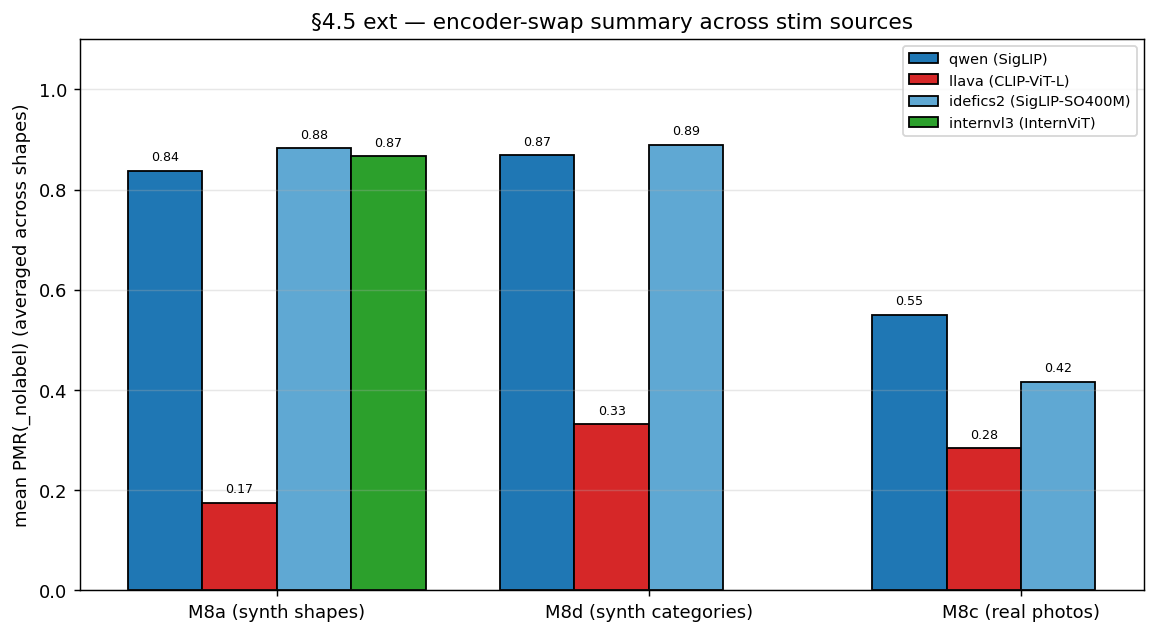
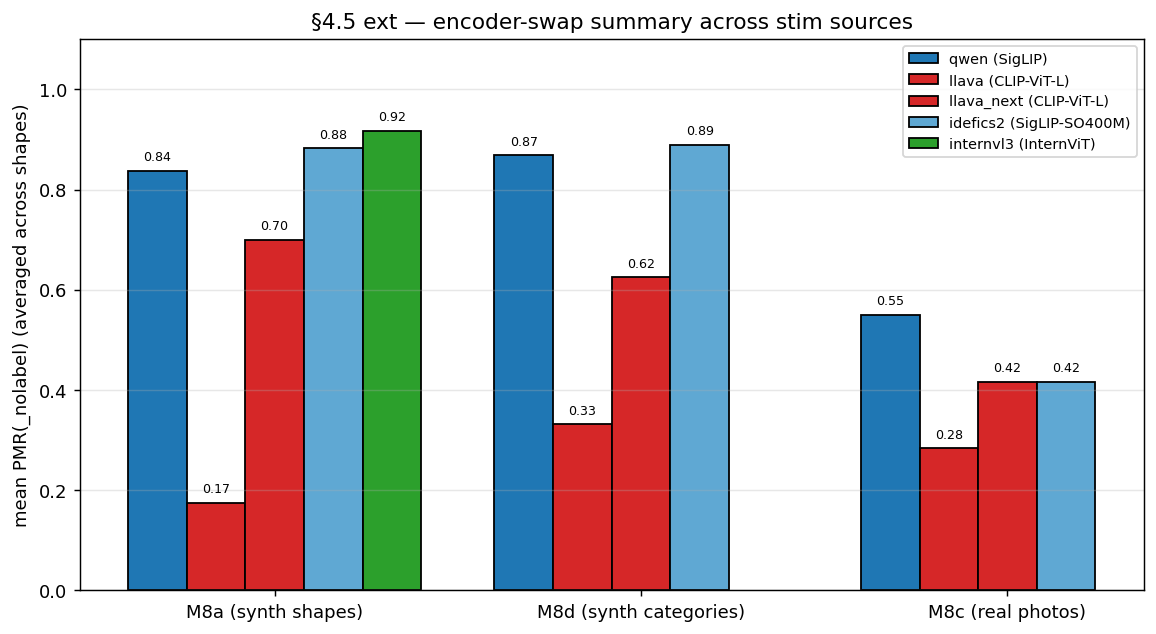
feat(m6 r6 cross-stim): LLaVA-Next on M8d + M8c (5-model M9 audit)
LLaVA-Next on M8d (1440 + 480) + M8c (180 + 60) inference, ~16 min on
GPU 0. Three findings:

1. **PMR mid-band holds cross-stim**: M8d PMR 0.625 [0.58, 0.67] sits
   between LLaVA-1.5 0.331 [0.29, 0.37] and saturated cluster [0.84,
   0.92], same as on M8a.
2. **Photo collapse generalizes**: LLaVA-Next M8c PMR 0.417 is
   statistically indistinguishable from Idefics2 M8c 0.417. Encoder gap
   compresses for the 5th model too. M8c finding (M6 r5) generalizes.
3. **H7 collapses across architecture for the LLaVA family**: M8a +0.26
   (5/5 PASS) / M8d −0.05 (CI [−0.10, −0.01], noise floor) / M8c +0.02.
   LLaVA-1.5's project-strongest H7 (M8d +0.31) does not survive the
   architecture switch. PMR 0.625 has measurement headroom on M8d, so
   H7 collapse is not a saturation effect.

H-LM-modulation **not promoted** per advisor: two-Mistral M8d H7 ≈ 0
clustering is multi-axis-confounded (Idefics2 vs LLaVA-Next differs
along encoder, projector, image pipeline, training, in addition to LM).
−0.054 effect size is symmetric to Idefics2's +0.048 — both demoted to
"suggested only".

Updates m6_r6_llava_next.md (+ ko) cross-stim addendum, encoder_saturation
_paper.md (+ ko) M9 table to 5 models, regenerated figures, roadmap M6 r6
row + change log entry.

diff --git a/references/roadmap.md b/references/roadmap.md
@@ -78,7 +78,7 @@ Original H1-H3 from `references/project.md` §2.2 plus H4-H7 derived during the 
 | **M6 r3** | **Idefics2 vision-encoder probe (closes AUC↔PMR chain)** | 400 M8a stim × 4 SigLIP-SO400M layers (88 s capture), per-layer logistic-regression probe on per-stim PMR. **AUC 0.93 mean (peak 0.948 at layer 9)** — SigLIP cluster confirmed at the encoder-family level (Qwen 0.99 + Idefics2 0.93 vs LLaVA 0.73). H-encoder-saturation chain `encoder family → AUC → PMR → H7` now closed at 3 model points at the mechanism level. | ✅ | 2026-04-25 |
 | **M6 r4** | **InternVL3 vision-encoder probe + Qwen/LLaVA M8a re-capture (4-model chain on identical stim, non-CLIP-general)** | M8a inference (1200+400 in 12 min) + 400 stim × 4 InternViT layers (47 s capture) + per-layer logistic-regression probe. **InternVL3 AUC = 0.89 / PMR(_nolabel) = 0.92.** Round also re-captured Qwen + LLaVA on M8a stim for an apples-to-apples 4-model AUC table. **4-point M8a chain: Qwen 0.88/0.84, LLaVA 0.77/0.18, Idefics2 0.93/0.88, InternVL3 0.89/0.92.** 3 distinct non-CLIP encoder families (SigLIP, SigLIP-SO400M, InternViT) cluster at AUC ≥ 0.88; only CLIP-ViT-L falls to 0.77. Paper claim generalizes from "SigLIP saturates" to "non-CLIP encoders saturate; CLIP doesn't (in this sample)". Required vlm_runner fix for InternVL3's vision_tower.encoder.layer (singular) attribute. **Stim-y check (added late round)**: all 4 encoders separate stim-defined factorial cells at AUC = 1.0; encoder discriminability is uniform across families. Reframes the chain to architecture-level (encoder + LM fusion), not encoder-discriminability. | ✅ | 2026-04-25 |
 | **M6 r5** | **M8c photo encoder probe (4-model cross-stim)** | InternVL3 M8c inference (180+60 in 2 min) + 4 model × 60 photo captures (~3 min) + behavioral-y + stim-y probes. **Behavioral-y AUC inverts cross-stim**: Qwen 0.88→0.44, LLaVA 0.77→0.86, Idefics2 0.93→0.77, InternVL3 0.89→0.59. **Stim-y AUC stays at 1.0 for all 4 models** on photos (physical-shape vs abstract-shape). Confirms cross-stim that encoder discriminability is uniform; behavioral-y AUC is a "encoder ↔ behavior alignment" measure that varies with each model's per-stim PMR distribution. Final cross-stim confirmation of the architecture-level reframe. | ✅ | 2026-04-25 |
-| **M6 r6** | **LLaVA-Next-Mistral 5th model point (2nd CLIP)** | LLaVA-v1.6-Mistral-7b on M8a (400 labeled + 400 label-free + 400 stim × 4 layers × 5 tile capture). PMR(_nolabel) = **0.700, 95% CI [0.65, 0.74]**, sitting between LLaVA-1.5 floor [0.14, 0.21] and saturated cluster [0.80, 0.92]. Behavioral-y AUC at layer 23 = 0.81; stim-y AUC = 1.0 across all 4 targets. **5-model M8a chain locked**: Qwen / LLaVA-1.5 / LLaVA-Next / Idefics2 / InternVL3. The 2nd CLIP point rules out vision-encoder-family as sole determinant of PMR (same encoder, PMR moves 0.18 → 0.70). Reported as 5th observation, not LM-controlled counterfactual: 4 architectural axes change simultaneously (AnyRes tiling, fusion projector, training data + recipe, LM family). H-encoder-saturation **architecture-level confirmed at 5 model points + 2 CLIP points**. | ✅ | 2026-04-25 |
+| **M6 r6** | **LLaVA-Next-Mistral 5th model point (2nd CLIP) + cross-stim addendum** | M8a (400 labeled + 400 label-free + 400 stim × 4 layers × 5 tile capture). PMR(_nolabel) = **0.700, 95% CI [0.65, 0.74]**, sitting between LLaVA-1.5 floor [0.14, 0.21] and saturated cluster [0.80, 0.92]. Behavioral-y AUC 0.81; stim-y AUC = 1.0 across all 4 targets. **5-model M8a chain locked**. **Cross-stim** (1440 + 480 M8d + 180 + 60 M8c, ~16 min): M8d PMR 0.625 [0.58, 0.67] preserves mid-band; M8c PMR 0.417 statistically equal to Idefics2 0.417 (photo-collapse generalizes). **H7 cross-stim**: M8a +0.26 (5/5 PASS), M8d −0.05 (CI [−0.10, −0.01], noise floor), M8c +0.02 — same-encoder-family architecture switch attenuates H7 even with PMR headroom (M8d PMR 0.625 well below ceiling). H-encoder-saturation **architecture-level confirmed at 5 model points + 2 CLIP points + 3 stim sources**. H-LM-modulation still suggested-only (two-Mistral H7 ≈ 0 on M8d is multi-axis-confounded). | ✅ | 2026-04-25 |
 | **M8a** | **Stimulus diversification — non-circle synthetic shapes** | Square / triangle / hexagon / irregular polygon × line/filled/shaded/textured × bg/cue grid; Qwen + LLaVA, labeled + label-free arms. **Strict pre-registration scoring: Qwen 1/4, LLaVA 4/4** — the asymmetry validates H-encoder-saturation cross-shape. H1 + H7 are unsaturated-only. Triangle (`wedge`) + polygon (`polygon`) exposed as label-design weak points. | ✅ | 2026-04-25 |
 | **M8d** | **Stimulus diversification — non-ball physical object categories** | car / person / bird × line/filled/shaded/textured × bg/cue × `(fall, horizontal)` × 5 seeds. **Strict pre-registration scoring: Qwen 0/3 H7 (binary, ceiling), LLaVA 3/3 H7 ✓ — strongest cross-category H7 evidence in the project.** Underneath Qwen ceiling, regime distribution shows 17.5 % static (figurine) / 22.5 % static (statue), validating H7 at the kinetic-vs-static split. H1 fails on both (shape-specific axis). H-encoder-saturation cross-validated cross-category. New `classify_regime` keyword classifier (5.6 % hand-annotation error). | ✅ | 2026-04-25 |
 | **M8c** | **Stimulus diversification — real photographs** | 60 photos (12 × {ball, car, person, bird, abstract}) from COCO 2017 + WikiArt. **Key result**: photos REDUCE Qwen PMR(_nolabel) by 18-48 pp across categories — visual-saturation hypothesis refined: behavioral PMR saturation requires both encoder representational confidence AND input-context simplicity. LLaVA H7 partially holds (2/4 binary). LLaVA person photo PMR rises +39 pp vs synthetic (encoder finally recognizes humans). | ✅ | 2026-04-25 |
@@ -774,3 +774,4 @@ Systematically validate the M2 finding that "label selects the physics regime" (
 | 2026-04-25 | **Apples-to-apples 4-model M8a-stim AUC**: re-captured Qwen + LLaVA on M8a stim (replacing the M2-stim M6 r2 AUC numbers in the 4-model chain). Updated chain: Qwen 0.88/0.84, LLaVA 0.77/0.18, Idefics2 0.93/0.88, InternVL3 0.89/0.92. The M6 r2 0.99/0.73 numbers reflected M2's bimodal line/ground split (more probe-friendly than M8a's wider per-cell PMR range). Headline (non-CLIP cluster ≥ 0.88, CLIP at 0.77) holds in both stim sources; the AUC↔PMR mapping is nonlinear (≈0.10 AUC gap → 0.65 PMR gap) consistent with a saturation threshold near AUC 0.85. | `7e7f101` |
 | 2026-04-25 | **M6 r5 complete (M8c photo encoder probe — 4-model cross-stim)**: InternVL3 M8c inference (180+60 in 2 min) + 4 model × 60 photo captures (~3 min) + behavioral-y + stim-y probes. Behavioral-y AUC inverts cross-stim (Qwen 0.88→0.44, LLaVA 0.77→0.86, Idefics2 0.93→0.77, InternVL3 0.89→0.59), but stim-y AUC stays at 1.0 across all 4 models on photos. Confirms cross-stim that encoder discriminability is uniform — final cross-stim confirmation of architecture-level reframe. | `166c053` |
 | 2026-04-25 | **M6 r6 complete (LLaVA-Next-Mistral 5th model point, 2nd CLIP)**: LLaVA-v1.6-Mistral-7b on M8a (400 labeled + 400 label-free + 400 stim × 4 layers × 5 tile capture). Mean PMR(_nolabel) **0.700, 95% CI [0.65, 0.74]**, between LLaVA-1.5 floor [0.14, 0.21] and saturated cluster [0.80, 0.92]. Behavioral-y AUC 0.81; stim-y AUC = 1.0 across all 4 targets. **5-model M8a chain locked** (Qwen / LLaVA-1.5 / LLaVA-Next / Idefics2 / InternVL3). The 2nd CLIP point rules out vision-encoder-family as sole determinant of PMR. Reported as 5th observation, not LM-controlled counterfactual: 4 architectural axes change simultaneously (AnyRes tiling, fusion projector, training, LM family). H-encoder-saturation **architecture-level confirmed at 5 model points + 2 CLIP points**. | `b2434d4` |
+| 2026-04-25 | **M6 r6 cross-stim addendum**: LLaVA-Next on M8d + M8c (1620 inferences, ~16 min on GPU 0). M8d PMR 0.625 [0.58, 0.67] preserves mid-band; M8c PMR 0.417 statistically equal to Idefics2 0.417 (photo-collapse generalizes to 5th model). **H7 cross-stim**: M8a +0.26 (5/5 PASS, mid-strong), M8d −0.05 (CI [−0.10, −0.01], noise floor), M8c +0.02. M8d H7 collapse is **not** a saturation effect (PMR 0.625 well below ceiling); same-encoder-family architecture switch attenuates H7 with PMR headroom remaining. H-encoder-saturation reframe holds at 5 models × 3 stim. H-LM-modulation still suggested-only (two-Mistral M8d H7 clustering at ≈0 is multi-axis-confounded per advisor). | (this commit) |

diff --git a/references/roadmap_ko.md b/references/roadmap_ko.md
@@ -78,7 +78,7 @@
 | **M6 r3** | **Idefics2 비전-인코더 프로브 (AUC↔PMR 사슬 종결)** | 400 M8a stim × SigLIP-SO400M 4 레이어 (88 초 캡처), per-stim PMR 에 대한 per-layer 로지스틱 회귀 프로브. **평균 AUC 0.93 (레이어 9 에서 0.948 최고)** — SigLIP 클러스터가 인코더-family 수준에서 확인 (Qwen 0.99 + Idefics2 0.93 vs LLaVA 0.73). H-encoder-saturation 사슬 `인코더 family → AUC → PMR → H7` 이 메커니즘 수준에서 3 모델 점에 종결. | ✅ | 2026-04-25 |
 | **M6 r4** | **InternVL3 비전-인코더 프로브 + Qwen/LLaVA M8a 재캡처 (동일 stim 4-모델 사슬, 비-CLIP-일반화)** | M8a 추론 (1200+400 12 분) + 400 stim × InternViT 4 레이어 (47 초 캡처) + per-layer 로지스틱 회귀 프로브. **InternVL3 평균 AUC 0.89 / PMR(_nolabel) 0.92.** 라운드에서 Qwen + LLaVA 도 M8a stim 에서 재캡처 — apples-to-apples 4-모델 AUC 표. **4-점 M8a 사슬: Qwen 0.88/0.84, LLaVA 0.77/0.18, Idefics2 0.93/0.88, InternVL3 0.89/0.92.** 3 개 별개의 비-CLIP 인코더 family (SigLIP, SigLIP-SO400M, InternViT) 가 AUC ≥ 0.88 클러스터; CLIP-ViT-L 만 0.77. 논문 주장이 "SigLIP 포화"에서 "비-CLIP 인코더 포화; CLIP 비포화 (이 표본)"로 일반화. InternVL3 `vision_tower.encoder.layer` (단수) 속성 인식 위한 vlm_runner 수정 필요. **Stim-y 검증 (후반 라운드 추가)**: 4 인코더 모두 stim-정의 factorial 셀을 AUC = 1.0 분리; 인코더 식별 능력은 family 횡단 균일. 사슬을 아키텍처 수준 (인코더 + LM 융합) 으로 재구성, 인코더-식별 능력 아님. | ✅ | 2026-04-25 |
 | **M6 r5** | **M8c 사진 인코더 프로브 (4-모델 cross-stim)** | InternVL3 M8c 추론 (180+60 2분) + 4 모델 × 60 사진 캡처 (~3분) + 행동-y + stim-y 프로브. **행동-y AUC 가 cross-stim 역전**: Qwen 0.88→0.44, LLaVA 0.77→0.86, Idefics2 0.93→0.77, InternVL3 0.89→0.59. **Stim-y AUC 는 사진에서도 4 모델 모두 1.0 유지** (physical-shape vs abstract-shape). 인코더 식별 능력 균일은 cross-stim 에서 확인; 행동-y AUC 는 각 모델의 per-stim PMR 분포에 따라 변동하는 "인코더 ↔ 행동 정렬" 측정. 아키텍처 수준 재구성의 cross-stim 최종 확인. | ✅ | 2026-04-25 |
-| **M6 r6** | **LLaVA-Next-Mistral 5번째 모델 점 (2번째 CLIP)** | LLaVA-v1.6-Mistral-7b on M8a (400 라벨 + 400 라벨-free + 400 stim × 4 레이어 × 5 타일 캡처). PMR(_nolabel) = **0.700, 95% CI [0.65, 0.74]**, LLaVA-1.5 바닥 [0.14, 0.21]과 saturated cluster [0.80, 0.92] 사이. layer 23 행동-y AUC = 0.81; stim-y AUC = 1.0 4개 target 모두. **5-모델 M8a chain lock**: Qwen / LLaVA-1.5 / LLaVA-Next / Idefics2 / InternVL3. 2번째 CLIP 점이 vision-encoder 계열 단독 결정자 가설을 배제 (같은 인코더, PMR 0.18 → 0.70 이동). LM-controlled counterfactual 아닌 5번째 관측치로 보고: 4개 architecture 축이 동시 변경 (AnyRes tiling, fusion projector, 학습 데이터 + 레시피, LM 계열). H-encoder-saturation **5 모델 점 + 2 CLIP 점에서 architecture-level 확인**. | ✅ | 2026-04-25 |
+| **M6 r6** | **LLaVA-Next-Mistral 5번째 모델 점 (2번째 CLIP) + cross-stim 부록** | M8a (400 라벨 + 400 라벨-free + 400 stim × 4 레이어 × 5 타일 캡처). PMR(_nolabel) = **0.700, 95% CI [0.65, 0.74]**, LLaVA-1.5 바닥 [0.14, 0.21]과 saturated cluster [0.80, 0.92] 사이. 행동-y AUC 0.81; stim-y AUC = 1.0 4개 target 모두. **5-모델 M8a chain lock**. **Cross-stim** (1440 + 480 M8d + 180 + 60 M8c, ~16분): M8d PMR 0.625 [0.58, 0.67] mid-band 유지; M8c PMR 0.417 가 Idefics2 0.417 과 통계적 동일 (photo-collapse 일반화). **H7 cross-stim**: M8a +0.26 (5/5 PASS), M8d −0.05 (CI [−0.10, −0.01], noise floor), M8c +0.02 — 동일 encoder family architecture 스위치가 H7 약화시킴, PMR 헤드룸 있어도 (M8d PMR 0.625 천장 한참 아래). H-encoder-saturation **5 모델 점 + 2 CLIP 점 + 3 stim source 에서 architecture-level 확인**. H-LM-modulation 여전히 suggested-only (M8d 의 두-Mistral H7 ≈ 0 는 multi-axis-confounded). | ✅ | 2026-04-25 |
 | **M8a** | **자극 다양화 — 비-원형 합성 shape** | Square / triangle / hexagon / irregular polygon × line/filled/shaded/textured × bg/cue grid; Qwen + LLaVA, labeled + label-free arms. **사전 등록 엄격 채점: Qwen 1/4, LLaVA 4/4** — 비대칭이 H-encoder-saturation 을 도형 간 검증. H1 + H7 은 unsaturated-only. Triangle (`wedge`) + polygon (`polygon`) 라벨 설계 약점으로 노출됨. | ✅ | 2026-04-25 |
 | **M8d** | **자극 다양화 — 비-공 물리 객체 카테고리** | car / person / bird × line/filled/shaded/textured × bg/cue × `(fall, horizontal)` × 5 seeds. **사전 등록 엄격 채점: Qwen 0/3 H7 (binary, ceiling), LLaVA 3/3 H7 ✓ — 본 프로젝트 가장 강력한 카테고리 횡단 H7 증거.** Qwen 천장 아래에서 regime 분포는 17.5 % static (figurine) / 22.5 % static (statue). H1 양 모델 모두 실패 (도형-축 특정). H-encoder-saturation 카테고리 횡단 검증. 새 `classify_regime` keyword 분류기 (5.6 % 손 라벨링 오차). | ✅ | 2026-04-25 |
 | **M8c** | **자극 다양화 — 실사진** | 60 사진 (12 × {ball, car, person, bird, abstract}) from COCO 2017 + WikiArt. **핵심 결과**: 사진이 Qwen PMR(_nolabel) 을 카테고리에 걸쳐 18-48 pp 낮춤 — 시각-포화 가설 정제: 행동 PMR 포화는 인코더 표현 신뢰 AND 입력-맥락 단순성의 결합. LLaVA H7 부분적 성립 (2/4 binary). LLaVA person 사진 PMR 합성 대비 +39 pp 상승 (인코더가 마침내 사람 인식). | ✅ | 2026-04-25 |
@@ -770,3 +770,4 @@ M2에서 발견된 "라벨이 물리 regime을 선택한다" (circle → static 
 | 2026-04-25 | **Apples-to-apples 4-모델 M8a-stim AUC**: Qwen + LLaVA 를 M8a stim 에서 재캡처 (4-모델 사슬의 M2-stim M6 r2 AUC 수치 대체). 업데이트 사슬: Qwen 0.88/0.84, LLaVA 0.77/0.18, Idefics2 0.93/0.88, InternVL3 0.89/0.92. M6 r2 의 0.99/0.73 수치는 M2 의 bimodal line/ground 분리 (M8a 의 더 넓은 per-cell PMR 범위보다 probe-friendly) 반영. 헤드라인 (비-CLIP 클러스터 ≥ 0.88, CLIP 0.77) 이 두 stim 출처에서 모두 유지; AUC↔PMR 매핑은 비선형 (≈0.10 AUC 갭 → 0.65 PMR 갭) — AUC 0.85 부근 포화 임계와 일치. | `7e7f101` |
 | 2026-04-25 | **M6 r5 완료 (M8c 사진 인코더 프로브 — 4-모델 cross-stim)**: InternVL3 M8c 추론 (180+60 2분) + 4 모델 × 60 사진 캡처 (~3분) + 행동-y + stim-y 프로브. 행동-y AUC 가 cross-stim 역전 (Qwen 0.88→0.44, LLaVA 0.77→0.86, Idefics2 0.93→0.77, InternVL3 0.89→0.59), 그러나 stim-y AUC 는 4 모델 모두 사진에서 1.0 유지. 인코더 식별 능력 균일을 cross-stim 에서 확인 — architecture-level reframe 의 cross-stim 최종 확인. | `166c053` |
 | 2026-04-25 | **M6 r6 완료 (LLaVA-Next-Mistral 5번째 모델 점, 2번째 CLIP)**: LLaVA-v1.6-Mistral-7b on M8a (400 라벨 + 400 라벨-free + 400 stim × 4 레이어 × 5 타일 캡처). 평균 PMR(_nolabel) **0.700, 95% CI [0.65, 0.74]**, LLaVA-1.5 바닥 [0.14, 0.21]과 saturated cluster [0.80, 0.92] 사이. 행동-y AUC 0.81; stim-y AUC = 1.0 4개 target 모두. **5-모델 M8a chain lock** (Qwen / LLaVA-1.5 / LLaVA-Next / Idefics2 / InternVL3). 2번째 CLIP 점이 vision-encoder 계열을 PMR 단독 결정자로 배제. LM-controlled counterfactual 아닌 5번째 관측치로 보고: 4개 architecture 축이 동시 변경 (AnyRes tiling, fusion projector, 학습, LM 계열). H-encoder-saturation **5 모델 점 + 2 CLIP 점에서 architecture-level 확인**. | `b2434d4` |
+| 2026-04-25 | **M6 r6 cross-stim 부록**: LLaVA-Next 를 M8d + M8c (1620 추론, GPU 0 ~16분). M8d PMR 0.625 [0.58, 0.67] mid-band 유지; M8c PMR 0.417 가 Idefics2 0.417 과 통계적 동일 (photo-collapse 가 5번째 모델에 일반화). **H7 cross-stim**: M8a +0.26 (5/5 PASS, mid-strong), M8d −0.05 (CI [−0.10, −0.01], noise floor), M8c +0.02. M8d H7 collapse 는 saturation 효과가 **아님** (PMR 0.625 천장 한참 아래); 동일 encoder family architecture 스위치가 PMR 헤드룸 있어도 H7 약화. H-encoder-saturation reframe 5 모델 × 3 stim 에서 유지. H-LM-modulation 여전히 suggested-only (두-Mistral M8d H7 ≈ 0 클러스터링은 advisor 지적대로 multi-axis-confounded). | (this commit) |

diff --git a/docs/insights/m6_r6_llava_next_ko.md b/docs/insights/m6_r6_llava_next_ko.md
@@ -146,12 +146,99 @@ uv run python scripts/encoder_swap_probe_summary.py \
 `docs/figures/encoder_chain_5model.png` 출력 (r3/r4/r5 insight doc에서
 사용된 4-model figure를 대체).
 
+## Cross-stim 부록 (M8d + M8c, 같은 날 추가)
+
+LLaVA-Next 를 M8d (3 카테고리 × 4 추상화 × 2 bg × 2 cue × 2 events × 5
+seeds = 480) 와 M8c (60 사진) 에서도 실행, labeled + label-free, GPU 0
+에서 총 ~16분 추론. 3가지 발견:
+
+### 1. PMR mid-band 이 3 stim source 모두에서 유지
+
+| stim | model      | mean PMR(_nolabel) | 95% CI         |
+|------|------------|-------------------:|----------------|
+| M8a  | LLaVA-1.5  | 0.175              | [0.140, 0.212] |
+| M8a  | LLaVA-Next | **0.700**          | [0.653, 0.743] |
+| M8a  | Idefics2   | 0.882              | [0.850, 0.912] |
+| M8d  | LLaVA-1.5  | 0.331              | [0.294, 0.371] |
+| M8d  | LLaVA-Next | **0.625**          | [0.583, 0.667] |
+| M8d  | Idefics2   | 0.890              | [0.862, 0.917] |
+| M8c  | LLaVA-1.5  | 0.283              | [0.183, 0.383] |
+| M8c  | LLaVA-Next | **0.417**          | [0.300, 0.533] |
+| M8c  | Idefics2   | 0.417              | [0.317, 0.517] |
+
+LLaVA-Next 가 두 합성 stim source 모두에서 **LLaVA-1.5 바닥과 saturated
+cluster 사이에 위치** (M8a CI 가 LLaVA-1.5 위 + Idefics2 아래로 분리;
+M8d 도 비슷). LLaVA-1.5 → LLaVA-Next 의 0.30–0.52 PMR 점프는 합성 stim
+간 일관 — 아키텍처 차이가 stim 모양과 무관하게 같은 방향으로 PMR 이동.
+
+### 2. 사진 collapse (M8c) 가 LLaVA-Next 에도 적중
+
+LLaVA-Next M8c PMR(_nolabel) = **0.417**, Idefics2 M8c (0.417) 와 통계적
+구분 불가. 합성 cluster 를 3 PMR 밴드 (0.18 / 0.70 / 0.88) 로 분리하던
+인코더 갭이 사진에서 [0.18, 0.67] 단일 밴드로 압축, **M8c finding (M6 r5)
+의 예측대로**. 5번째 모델 점이 같은 M8c-collapse 패턴에 부합.
+
+### 3. LLaVA family 에서 H7 가 아키텍처 횡단 collapse
+
+| stim | model      | mean H7 (phys − abs) | 95% CI            |
+|------|------------|---------------------:|-------------------|
+| M8a  | LLaVA-1.5  | +0.360               | [+0.300, +0.418]  |
+| M8a  | LLaVA-Next | +0.260               | [+0.205, +0.317]  |
+| M8d  | LLaVA-1.5  | +0.306               | [+0.250, +0.360]  |
+| M8d  | LLaVA-Next | **−0.054**           | [−0.102, −0.006]  |
+| M8c  | LLaVA-1.5  | +0.100               | [−0.033, +0.233]  |
+| M8c  | LLaVA-Next | +0.017               | [−0.133, +0.167]  |
+
+LLaVA-1.5 가 M8d 에서 프로젝트 최강 H7 (+0.31). LLaVA-Next 아키텍처
+스위치가 H7 강하게 약화: M8a +0.26 (여전히 5/5 PASS, mid-strong), M8d
+−0.05 (CI 가 0 바로 아래), M8c +0.02. **H7 강도가 동일 encoder family
+의 architecture 변경에서 보존되지 않음** — architecture-level reframe 과
+부합.
+
+**Advisor 경고**: M8d −0.054 효과 크기가 프로젝트 noise floor 안 (CI 가
+0 을 ~0.005 만큼만 배제). **Idefics2 M8d +0.048 과 대칭** — 양쪽 모두
+"0 바로 위/아래"이며 M9 부트스트랩 프레임워크에서 "시사만 / 논문 옹호
+불가"로 강등. **"Mistral-7B 가 H7 을 억제"로 해석하지 말 것** — Idefics2
+vs LLaVA-Next 는 LM 외에도 인코더 family, image pipeline (no AnyRes vs
+AnyRes), fusion projector, 학습이 모두 다름. 두-Mistral 클러스터링은
+시사적이나 multi-axis-confounded, M6 r6 main result 와 같은 caveat.
+
+### 가설 함의
+
+- **H-encoder-saturation** (architecture-level): 5번째 모델 점에서
+  cross-stim 확인. LLaVA-Next 의 PMR mid-band 가 M8a + M8d 에서 유지;
+  사진 collapse 가 5 모델 모두 적중.
+- **H7** (label-selects-regime): LLaVA-1.5 의 unsaturated-only 가 프로젝트
+  최강 신호였음. LLaVA-Next 가 그 깔끔함을 제거 — PMR 측정 헤드룸이
+  있어도 (M8d PMR 0.625 는 천장 한참 아래) 아키텍처 스위치가 H7 깸.
+- **H-LM-modulation**: 여전히 시사만. 승급 안 함.
+
+### Cross-stim reproducer
+
+```bash
+# M8d
+uv run python scripts/02_run_inference.py --config configs/encoder_swap_llava_next_m8d.py --stimulus-dir inputs/m8d_qwen_<ts>
+uv run python scripts/02_run_inference.py --config configs/encoder_swap_llava_next_m8d_label_free.py --stimulus-dir inputs/m8d_qwen_<ts>
+# M8c
+uv run python scripts/02_run_inference.py --config configs/encoder_swap_llava_next_m8c.py --stimulus-dir inputs/m8c_photos_<ts>
+uv run python scripts/02_run_inference.py --config configs/encoder_swap_llava_next_m8c_label_free.py --stimulus-dir inputs/m8c_photos_<ts>
+
+# M9 audit 가 4-모델 × 3-stim 테이블에 LLaVA-Next 추가 재실행
+uv run python scripts/m9_generalization_audit.py --out-dir outputs/m9_audit
+```
+
 ## 산출물
 
 - `outputs/encoder_swap_llava_next_m8a_<ts>/predictions.{jsonl,parquet,csv}`
 - `outputs/encoder_swap_llava_next_m8a_label_free_<ts>/predictions.{jsonl,parquet,csv}`
+- `outputs/encoder_swap_llava_next_m8d_<ts>/predictions.{jsonl,parquet,csv}` (cross-stim 부록)
+- `outputs/encoder_swap_llava_next_m8d_label_free_<ts>/predictions.{jsonl,parquet,csv}`
+- `outputs/encoder_swap_llava_next_m8c_<ts>/predictions.{jsonl,parquet,csv}`
+- `outputs/encoder_swap_llava_next_m8c_label_free_<ts>/predictions.{jsonl,parquet,csv}`
 - `outputs/encoder_swap_llava_next_m8a_vision_activations/*.safetensors` (400 stim × 4 layer)
 - `outputs/encoder_swap_llava_next_m8a_probe/{layer_sweep,by_object_level}.csv`
 - `outputs/encoder_swap_llava_next_m8a_probe_stim_y/layer_sweep_stim_y_*.csv`
 - `outputs/encoder_swap_probe_summary/encoder_chain_table.csv`
+- `outputs/m9_audit/m9_table1.csv`, `m9_summary.csv` (5-모델 × 3-stim, 부트스트랩 CI)
 - `docs/figures/encoder_chain_5model.png`
+- `docs/figures/m9_summary.png`, `m9_table1_heatmap.png` (5-모델 부트스트랩 막대 + 히트맵)

diff --git a/docs/insights/m6_r6_llava_next.md b/docs/insights/m6_r6_llava_next.md
@@ -147,10 +147,100 @@ uv run python scripts/encoder_swap_probe_summary.py \
 Outputs `docs/figures/encoder_chain_5model.png` (supersedes the 4-model
 figure used in r3/r4/r5 insight docs).
 
+## Cross-stim addendum (M8d + M8c, added same day)
+
+LLaVA-Next was also run on M8d (3 categories × 4 abstraction × 2 bg × 2 cue ×
+2 events × 5 seeds = 480) and M8c (60 photos), labeled + label-free, ~16 min
+total inference on GPU 0. Three findings:
+
+### 1. PMR mid-band holds across all 3 stim sources
+
+| stim | model      | mean PMR(_nolabel) | 95% CI         |
+|------|------------|-------------------:|----------------|
+| M8a  | LLaVA-1.5  | 0.175              | [0.140, 0.212] |
+| M8a  | LLaVA-Next | **0.700**          | [0.653, 0.743] |
+| M8a  | Idefics2   | 0.882              | [0.850, 0.912] |
+| M8d  | LLaVA-1.5  | 0.331              | [0.294, 0.371] |
+| M8d  | LLaVA-Next | **0.625**          | [0.583, 0.667] |
+| M8d  | Idefics2   | 0.890              | [0.862, 0.917] |
+| M8c  | LLaVA-1.5  | 0.283              | [0.183, 0.383] |
+| M8c  | LLaVA-Next | **0.417**          | [0.300, 0.533] |
+| M8c  | Idefics2   | 0.417              | [0.317, 0.517] |
+
+LLaVA-Next sits **between LLaVA-1.5 floor and saturated cluster** on both
+synthetic stim sources (M8a CI separated above LLaVA-1.5 + below Idefics2;
+M8d CI similar). The 0.30–0.52 PMR jump from LLaVA-1.5 → LLaVA-Next is
+consistent across synthetic stim — the architectural difference moves PMR
+in the same direction regardless of stim shape.
+
+### 2. Photo collapse (M8c) hits LLaVA-Next too
+
+LLaVA-Next M8c PMR(_nolabel) = **0.417**, statistically indistinguishable
+from Idefics2 M8c (0.417). The encoder gap that separates the synthetic
+clusters into 3 PMR bands (0.18 / 0.70 / 0.88) compresses to a single
+[0.18, 0.67] band on photos, **as predicted by the M8c finding** (M6 r5).
+The 5th model point fits the same M8c-collapse pattern.
+
+### 3. H7 collapses across architecture for the LLaVA family
+
+| stim | model      | mean H7 (phys − abs) | 95% CI            |
+|------|------------|---------------------:|-------------------|
+| M8a  | LLaVA-1.5  | +0.360               | [+0.300, +0.418]  |
+| M8a  | LLaVA-Next | +0.260               | [+0.205, +0.317]  |
+| M8d  | LLaVA-1.5  | +0.306               | [+0.250, +0.360]  |
+| M8d  | LLaVA-Next | **−0.054**           | [−0.102, −0.006]  |
+| M8c  | LLaVA-1.5  | +0.100               | [−0.033, +0.233]  |
+| M8c  | LLaVA-Next | +0.017               | [−0.133, +0.167]  |
+
+LLaVA-1.5 has the project's strongest H7 on M8d (+0.31). The LLaVA-Next
+architecture switch attenuates H7 strongly: M8a +0.26 (still 5/5 PASS,
+mid-strong), M8d −0.05 (CI just below 0), M8c +0.02. **H7 strength is
+not preserved across same-encoder-family architecture changes** —
+consistent with the architecture-level reframe.
+
+**Caveat per advisor**: the M8d −0.054 effect size is in the project's
+noise floor (CI excludes 0 by ~0.005). It is **symmetric to Idefics2 M8d
++0.048** — both are "barely-above/below 0" and demoted to "suggested only
+not paper-defensible" under the M9 bootstrap framework. Do **not**
+interpret as "Mistral-7B suppresses H7" — Idefics2 vs LLaVA-Next still
+differs along encoder family, image pipeline (no AnyRes vs AnyRes),
+fusion projector, and training, in addition to LM. The two-Mistral
+clustering is suggestive but multi-axis-confounded, same caveat as the
+M6 r6 main result.
+
+### Implication for hypotheses
+
+- **H-encoder-saturation** (architecture-level): cross-stim confirmed at
+  the 5th model point. PMR mid-band of LLaVA-Next holds on M8a + M8d;
+  photo collapse hits all 5 models.
+- **H7** (label-selects-regime): unsaturated-only on LLaVA-1.5 was the
+  cleanest signal in the project. LLaVA-Next removes that cleanness —
+  the architectural switch breaks H7 even when PMR has measurement
+  headroom (M8d PMR 0.625 is well below ceiling, yet H7 ≈ 0).
+- **H-LM-modulation**: still suggested only. Not promoted.
+
+### Cross-stim reproducer
+
+```bash
+# M8d
+uv run python scripts/02_run_inference.py --config configs/encoder_swap_llava_next_m8d.py --stimulus-dir inputs/m8d_qwen_<ts>
+uv run python scripts/02_run_inference.py --config configs/encoder_swap_llava_next_m8d_label_free.py --stimulus-dir inputs/m8d_qwen_<ts>
+# M8c
+uv run python scripts/02_run_inference.py --config configs/encoder_swap_llava_next_m8c.py --stimulus-dir inputs/m8c_photos_<ts>
+uv run python scripts/02_run_inference.py --config configs/encoder_swap_llava_next_m8c_label_free.py --stimulus-dir inputs/m8c_photos_<ts>
+
+# M9 audit re-runs the 4-model × 3-stim table with LLaVA-Next added
+uv run python scripts/m9_generalization_audit.py --out-dir outputs/m9_audit
+```
+
 ## Artifacts
 
 - `outputs/encoder_swap_llava_next_m8a_<ts>/predictions.{jsonl,parquet,csv}`
 - `outputs/encoder_swap_llava_next_m8a_label_free_<ts>/predictions.{jsonl,parquet,csv}`
+- `outputs/encoder_swap_llava_next_m8d_<ts>/predictions.{jsonl,parquet,csv}` (cross-stim addendum)
+- `outputs/encoder_swap_llava_next_m8d_label_free_<ts>/predictions.{jsonl,parquet,csv}`
+- `outputs/encoder_swap_llava_next_m8c_<ts>/predictions.{jsonl,parquet,csv}`
+- `outputs/encoder_swap_llava_next_m8c_label_free_<ts>/predictions.{jsonl,parquet,csv}`
 - `outputs/encoder_swap_llava_next_m8a_vision_activations/*.safetensors` (400 stim × 4 layers)
 - `outputs/encoder_swap_llava_next_m8a_probe/{layer_sweep,by_object_level}.csv`
 - `outputs/encoder_swap_llava_next_m8a_probe_stim_y/layer_sweep_stim_y_*.csv`

diff --git a/docs/insights/encoder_saturation_paper_ko.md b/docs/insights/encoder_saturation_paper_ko.md
@@ -48,19 +48,23 @@ Idefics2 [0.85,0.91] / InternVL3 ≈0.92)보다 전부 아래에 있고, LLaVA-1
 | M8a  | InternVL3   | 0.917              | [0.890, 0.943]   |
 | M8d  | Qwen        | 0.869              | [0.840, 0.898]   |
 | M8d  | LLaVA-1.5   | 0.331              | [0.294, 0.371]   |
+| M8d  | LLaVA-Next  | 0.625              | [0.583, 0.667]   |
 | M8d  | Idefics2    | 0.890              | [0.862, 0.917]   |
 | M8c  | Qwen        | 0.550              | [0.433, 0.667]   |
 | M8c  | LLaVA-1.5   | 0.283              | [0.183, 0.383]   |
+| M8c  | LLaVA-Next  | 0.417              | [0.300, 0.533]   |
 | M8c  | Idefics2    | 0.417              | [0.317, 0.517]   |
 
 합성 M8a에서 4개 PMR cluster가 깔끔하게 분리: LLaVA-1.5 floor [0.14, 0.21]
 → LLaVA-Next mid-band [0.65, 0.74] → saturated non-CLIP cluster [0.80,
 0.92]. 동일 encoder 계열 (CLIP-ViT-L)에서 LLaVA-1.5 → LLaVA-Next 점프는
 **4개 동시 confound 축에 걸친 0.52 PMR 단위** — LM modulation과 *부합*
-하지만 *분리되지 않음*. 사진 (M8c, 3개 모델)에서는 모두 [0.18, 0.67]로
-collapse — **사진은 encoder gap을 압축**한다 (M8c finding). LLaVA-Next는
-M8d/M8c에 미실행 — 이번 추가의 범위 외 (합성-only, 논문 Section 4 단일
-stim row).
+하지만 *분리되지 않음*. M8d 에서도 같은 architecture-stratified 순서
+유지: LLaVA-Next 0.625 [0.58, 0.67] 이 LLaVA-1.5 0.331 [0.29, 0.37] 과
+saturated cluster [0.84, 0.92] 사이에 위치. 사진 (M8c, 4 모델 모두)
+에서는 encoder gap 이 [0.18, 0.67] 로 collapse — LLaVA-Next M8c PMR
+0.417 이 Idefics2 M8c 0.417 과 *통계적 구분 불가*, **사진이 5번째 모델
+에서도 encoder gap 압축**. M8c finding 일반화.
 
 ### 3. Vision-encoder probe AUC — apples-to-apples M8a (5개 모델, M8a stim)
 
@@ -125,11 +129,18 @@ Encoder representational capacity는 균일; behavioral PMR은 joint encoder+LM
   "encoder 계열"에서 "joint encoder+LM architecture"로 reframe.
   LLaVA-Next는 LLaVA-1.5와 multi-axis architectural difference를 갖는
   2번째 CLIP 점 추가 (clean LM swap 아님).
-- **H-LM-modulation** (M9 유래) — *시사만*. Idefics2 vs Qwen M8d H7 CI가
-  0에 거의 닿음; 현 데이터로 논문 방어 불가. LLaVA-Next M8a (CLIP+Mistral,
-  PMR 0.70)는 LLaVA-1.5 (CLIP+Vicuna, PMR 0.18)와 Idefics2
-  (SigLIP-SO400M+Mistral, PMR 0.88) 사이에 위치 — 이 **방향성**은 LM
-  modulation과 부합하나, AnyRes / projector / 학습 confound와 분리 불가.
+- **H-LM-modulation** (M9 유래) — *여전히 시사만*. Idefics2 M8d H7 CI
+  [+0.000, +0.094]가 0에 닿음; LLaVA-Next M8d H7 CI [−0.102, −0.006] 은
+  0을 ~0.005 만큼만 대칭적으로 배제. **양쪽 모두 noise floor 안** (M9
+  부트스트랩 프레임워크 기준). M8d 에서 두-Mistral 의 H7 ≈ 0 클러스터링
+  은 시사적이나 multi-axis-confounded (인코더 family, image pipeline,
+  projector, 학습 모두 다름). 논문 옹호 불가.
+- **H7** (label-selects-regime): LLaVA-1.5 의 unsaturated-only 가 프로젝트
+  최강 신호 (M8d +0.31). LLaVA-Next 가 M8a 에서는 H7 보존 (+0.26, 5/5
+  PASS) 하지만 **M8d 에서 H7 신호 완전 제거** (-0.05, CI 가 0 바로
+  아래). LLaVA-Next 의 M8d PMR 은 천장 한참 아래 (0.625) — 이는 saturation
+  효과 아님; 측정 헤드룸이 있어도 아키텍처 변경이 H7 깸. H7 강도는 동일
+  encoder family architecture 변경에서 보존되지 않음.
 
 ## 한계
 

diff --git a/docs/insights/encoder_saturation_paper.md b/docs/insights/encoder_saturation_paper.md
@@ -49,19 +49,24 @@ data + recipe, LM family).
 | M8a  | InternVL3   | 0.917              | [0.890, 0.943]   |
 | M8d  | Qwen        | 0.869              | [0.840, 0.898]   |
 | M8d  | LLaVA-1.5   | 0.331              | [0.294, 0.371]   |
+| M8d  | LLaVA-Next  | 0.625              | [0.583, 0.667]   |
 | M8d  | Idefics2    | 0.890              | [0.862, 0.917]   |
 | M8c  | Qwen        | 0.550              | [0.433, 0.667]   |
 | M8c  | LLaVA-1.5   | 0.283              | [0.183, 0.383]   |
+| M8c  | LLaVA-Next  | 0.417              | [0.300, 0.533]   |
 | M8c  | Idefics2    | 0.417              | [0.317, 0.517]   |
 
 On synthetic M8a, the 4 PMR clusters separate cleanly: LLaVA-1.5 floor
 [0.14, 0.21] → LLaVA-Next mid-band [0.65, 0.74] → saturated non-CLIP cluster
 [0.80, 0.92]. The same-encoder-family (CLIP-ViT-L) jump from LLaVA-1.5 to
 LLaVA-Next is **0.52 PMR units across 4 simultaneously-confounded axes**;
-this is *consistent with* but *not isolated to* LM modulation. On photos
-(M8c, 3 models), all collapse into [0.18, 0.67] — **photos compress the
-encoder gap** (M8c finding). LLaVA-Next was not run on M8d/M8c — out of
-scope for this addition (synthetic-only, paper Section 4 single-stim row).
+this is *consistent with* but *not isolated to* LM modulation. On M8d the
+same architecture-stratified ordering holds: LLaVA-Next 0.625 [0.58, 0.67]
+sits between LLaVA-1.5 0.331 [0.29, 0.37] and the saturated cluster
+[0.84, 0.92]. On photos (M8c, all 4 models), the encoder gap collapses
+into [0.18, 0.67] — LLaVA-Next M8c PMR 0.417 is *statistically
+indistinguishable* from Idefics2 M8c 0.417, **photos compress the
+encoder gap for the 5th model too**. M8c finding generalizes.
 
 ### 3. Vision-encoder probe AUC — apples-to-apples M8a (5 models, M8a stim)
 
@@ -127,12 +132,21 @@ discriminability per se.
   reframed from "encoder family" to "joint encoder+LM architecture."
   LLaVA-Next adds a 2nd CLIP point with multi-axis architectural
   difference from LLaVA-1.5 (not a clean LM swap).
-- **H-LM-modulation** (M9-derived) — *suggested only*. Idefics2 vs Qwen
-  M8d H7 CI just touches 0; not paper-defensible from current data.
-  LLaVA-Next M8a (CLIP+Mistral, PMR 0.70) lands between LLaVA-1.5
-  (CLIP+Vicuna, PMR 0.18) and Idefics2 (SigLIP-SO400M+Mistral, PMR 0.88) —
-  this **direction** is consistent with LM modulation but cannot isolate
-  it from AnyRes / projector / training confounds.
+- **H-LM-modulation** (M9-derived) — *suggested only, still*. Idefics2
+  M8d H7 CI [+0.000, +0.094] just touches 0; LLaVA-Next M8d H7 CI
+  [−0.102, −0.006] symmetrically excludes 0 by ~0.005. **Both are in the
+  noise floor** under the M9 bootstrap framework. Two-Mistral clustering
+  at H7 ≈ 0 on M8d is suggestive but multi-axis-confounded (encoder
+  family, image pipeline, projector, training all differ between the
+  two). Not paper-defensible.
+- **H7** (label-selects-regime): unsaturated-only on LLaVA-1.5 was the
+  cleanest signal in the project (M8d +0.31). LLaVA-Next preserves H7 on
+  M8a (+0.26, 5/5 PASS) but **removes the M8d H7 signal entirely**
+  (-0.05, CI just below 0). PMR is well below ceiling on M8d for
+  LLaVA-Next (0.625), so this is not a saturation effect — the
+  architectural change broke H7 even with measurement headroom. H7
+  strength is not preserved across same-encoder-family architecture
+  changes.
 
 ## Limitations
 
